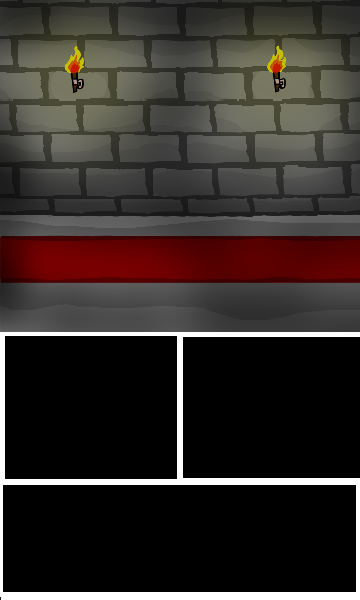
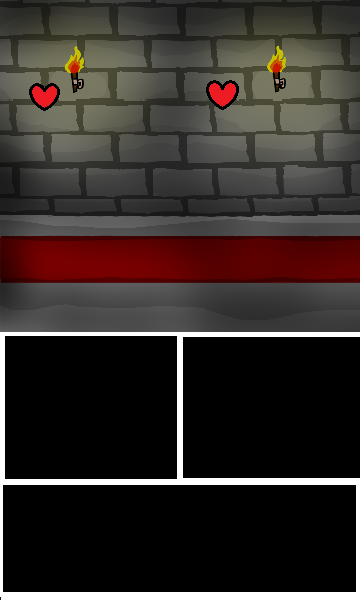
quelques modifs graphiques

Changed region(s): [[0.5806, 0.12, 0.6722, 0.18], [0.0611, 0.12, 0.1833, 0.18]]

diff --git a/core/src/com/nf28/game/GameOverScreen.java b/core/src/com/nf28/game/GameOverScreen.java
@@ -1,0 +1,117 @@
+package com.nf28.game;
+
+import com.badlogic.gdx.Gdx;
+import com.badlogic.gdx.Preferences;
+import com.badlogic.gdx.Screen;
+import com.badlogic.gdx.graphics.GL20;
+import com.badlogic.gdx.graphics.Texture;
+import com.badlogic.gdx.graphics.g2d.Sprite;
+import com.badlogic.gdx.graphics.g2d.SpriteBatch;
+import com.badlogic.gdx.scenes.scene2d.InputEvent;
+import com.badlogic.gdx.scenes.scene2d.Stage;
+import com.badlogic.gdx.scenes.scene2d.ui.Skin;
+import com.badlogic.gdx.scenes.scene2d.ui.Table;
+import com.badlogic.gdx.scenes.scene2d.ui.TextButton;
+import com.badlogic.gdx.scenes.scene2d.utils.ClickListener;
+
+/**
+ * Created by Clément on 12/06/2017.
+ */
+public class GameOverScreen implements Screen {
+
+    Skin skin;
+    Stage stage;
+    VocabularyQuest game;
+
+    SpriteBatch batch;
+
+    Sprite main_screen = new Sprite(new Texture("img/gameover.png"));
+
+
+    public GameOverScreen(final VocabularyQuest game){
+        final int WIDTH_BUTTON = Gdx.graphics.getWidth()*6/10;
+        final int HEIGHT_BUTTON = Gdx.graphics.getWidth()*15/100;
+        this.game = game;
+        batch = new SpriteBatch();
+        stage=new Stage();
+        Gdx.input.setInputProcessor(stage);
+
+        skin = new Skin( Gdx.files.internal( "skin/craftacular/skin/craftacular-ui.json" ));
+
+
+        main_screen.setSize(Gdx.graphics.getWidth(), Gdx.graphics.getHeight());
+        Table table=new Table();
+        table.setSize(Gdx.graphics.getWidth(), Gdx.graphics.getHeight());
+
+        final TextButton button_return=new TextButton("Return to main menu",skin);
+        table.add(button_return);
+        table.row();
+
+        stage.addActor(table);
+
+        button_return.addListener(new ClickListener(){
+            @Override
+            public void clicked(InputEvent event, float x, float y) {
+
+                if (game.bestfloor < game.floor) {
+                    game.bestfloor = game.floor;
+                    Preferences prefs = Gdx.app.getPreferences("cfg");
+                    prefs.putInteger("bestfloor", game.bestfloor);
+                    prefs.flush();
+                }
+
+                game.resetGame();
+                game.setScreen(new MainMenuScreen(game));
+            }
+        });
+
+    }
+
+
+
+    @Override
+    public void show() {
+
+    }
+
+    @Override
+    public void render(float delta) {
+
+        Gdx.gl.glClearColor(0,1,1,1);
+        Gdx.gl.glClear(GL20.GL_COLOR_BUFFER_BIT);
+
+        batch.begin();
+        main_screen.draw(batch);
+        batch.end();
+        stage.act(delta);
+        stage.draw();
+        //stage.setViewport(800,480,false);
+
+    }
+
+    @Override
+    public void resize(int width, int height) {
+
+
+    }
+
+    @Override
+    public void pause() {
+
+    }
+
+    @Override
+    public void resume() {
+
+    }
+
+    @Override
+    public void hide() {
+
+    }
+
+    @Override
+    public void dispose() {
+        stage.dispose();
+    }
+}

diff --git a/core/src/com/nf28/game/BattleScreen.java b/core/src/com/nf28/game/BattleScreen.java
@@ -40,8 +40,8 @@ public class BattleScreen implements Screen {
     Table table;
     Table tableCheat;
     final TextButton map;
-    final TextButton objet;
-    final TextButton magie;
+    //final TextButton objet;
+    //final TextButton magie;
     Label badguyLifeLabel ;
     Label goodguyLifeLabel ;
     Label desc ;
@@ -104,27 +104,31 @@ public class BattleScreen implements Screen {
             answerTable.row();
             tb.addListener(al);
         }
+
         table.add(answerTable).fill();
         table.row();
-
-        tableCheat= new Table();
-        tableCheat.setFillParent(true);
-        tableCheat.bottom();
         map =new TextButton("Flee",skin);
-        map.setWidth(Gdx.graphics.getWidth());
+        table.add(map).colspan(2).expandX();
+//        table.row();
+
+        //tableCheat= new Table();
+        //tableCheat.setFillParent(true);
+        //tableCheat.bottom();
+       // map =new TextButton("Flee",skin);
+       // map.setWidth(Gdx.graphics.getWidth());
        // table.add(map).colspan(2).expandX();
-        tableCheat.add(map).expandX();
-        tableCheat.row();
-        objet=new TextButton("Item",skin);
-        objet.setWidth(Gdx.graphics.getWidth());
-        tableCheat.add(objet);
-        tableCheat.row();
-        magie=new TextButton("Skill",skin);
-        magie.setWidth(Gdx.graphics.getWidth());
-        tableCheat.add(magie);
-        table.add(tableCheat).fill();
+        //tableCheat.add(map).expandX();
+        //tableCheat.row();
+        //objet=new TextButton("Item",skin);
+        //objet.setWidth(Gdx.graphics.getWidth());
+        //tableCheat.add(objet);
+        //tableCheat.row();
+        //magie=new TextButton("Skill",skin);
+        //magie.setWidth(Gdx.graphics.getWidth());
+       // tableCheat.add(magie);
+        //table.add(tableCheat).fill();
         stage.addActor(table);
-        stage.addActor(tableCheat);
+        //stage.addActor(tableCheat);
         refresh();
 
             map.addListener(new ClickListener() {
@@ -204,8 +208,7 @@ public class BattleScreen implements Screen {
         }
         if(game.heros.getHp()<=0)
         {
-            game.resetGame();
-            game.setScreen(new MainMenuScreen(game));
+            game.setScreen(new GameOverScreen(game));
             game.dispose();
         }
 

diff --git a/core/src/com/nf28/game/MainMenuScreen.java b/core/src/com/nf28/game/MainMenuScreen.java
@@ -32,8 +32,10 @@ public class MainMenuScreen implements Screen {
 
     Skin skin;
     Skin basicSkin;
+    Skin selectSkin;
     Stage stage;
     VocabularyQuest game;
+    Label bestfloor;
 
     SpriteBatch batch;
 
@@ -50,19 +52,25 @@ public class MainMenuScreen implements Screen {
 //        skin = new Skin( Gdx.files.internal( "ui/defaultskin.json" ));
 
         skin = new Skin( Gdx.files.internal( "skin/craftacular/skin/craftacular-ui.json" ));
+        //selectSkin = new Skin( Gdx.files.internal( "skin/extras/skin/extras-ui.json" ));
         basicSkin  = new Skin( Gdx.files.internal( "ui/defaultskin.json" ));
         main_screen.setSize(Gdx.graphics.getWidth(), Gdx.graphics.getHeight());
 
-
+        bestfloor = new Label("Best floor : " + game.bestfloor ,skin);
 
         Table table=new Table();
         table.setSize(Gdx.graphics.getWidth(), Gdx.graphics.getHeight());
         table.bottom();
 
+
+        table.add(bestfloor).padBottom(Gdx.graphics.getHeight()/10);
+        table.row();
+
         final SelectBox<String> listVoc = new SelectBox<String>(basicSkin);
         Array<String> lists = FileLoader.loadFilesNames();
         listVoc.setItems(lists);
-        table.add(listVoc).width(200).height(100).left().top();
+
+        table.add(listVoc).width(Gdx.graphics.getWidth()/2).height(Gdx.graphics.getHeight()/15).top();
         table.row();
 
         final TextButton startGame=new TextButton("Start game",skin);
@@ -123,7 +131,6 @@ public class MainMenuScreen implements Screen {
                 files.setDirectory(new FileHandle(Gdx.files.getExternalStoragePath()));
                 files.getBackground().setMinHeight(Gdx.graphics.getHeight()/3);  //TODO Scale with phone resolution
                 files.getBackground().setMinWidth(Gdx.graphics.getWidth());
-                //files.setFillParent(true);
                 files.show(stage);
             }
         });

diff --git a/core/src/com/nf28/game/ShopScreen.java b/core/src/com/nf28/game/ShopScreen.java
@@ -6,6 +6,8 @@ import com.badlogic.gdx.Screen;
 import com.badlogic.gdx.files.FileHandle;
 import com.badlogic.gdx.graphics.GL20;
 import com.badlogic.gdx.graphics.Texture;
+import com.badlogic.gdx.graphics.g2d.Sprite;
+import com.badlogic.gdx.graphics.g2d.SpriteBatch;
 import com.badlogic.gdx.graphics.g2d.TextureRegion;
 import com.badlogic.gdx.scenes.scene2d.InputEvent;
 import com.badlogic.gdx.scenes.scene2d.Stage;
@@ -30,6 +32,7 @@ import java.util.List;
 public class ShopScreen implements Screen {
 
     Skin skin;
+    SpriteBatch batch;
     VocabularyQuest game;
     Stage stage;
     int currentPage = 0;
@@ -40,12 +43,16 @@ public class ShopScreen implements Screen {
     List<Label> priceLabelList = new ArrayList<Label>();
     List<Image> imageList = new ArrayList<Image>();
 
+    Sprite background = new Sprite(new Texture("background/background_shop.png"));
+
 
     Table table;
 
     public ShopScreen(final VocabularyQuest game){
         this.game = game;
         stage=new Stage();
+        background.setSize(Gdx.graphics.getWidth(), Gdx.graphics.getHeight());
+        batch = new SpriteBatch();
         Gdx.input.setInputProcessor(stage);
         skin = new Skin( Gdx.files.internal("ui/defaultskin.json"));
         //skin = new Skin( Gdx.files.internal( "skin/craftacular/skin/craftacular-ui.json" ));
@@ -164,6 +171,9 @@ public class ShopScreen implements Screen {
     public void render(float delta) {
         Gdx.gl.glClearColor(1,1,1,1);
         Gdx.gl.glClear(GL20.GL_COLOR_BUFFER_BIT);
+        batch.begin();
+        background.draw(batch);
+        batch.end();
         stage.act(delta);
         stage.draw();
     }

diff --git a/core/src/com/nf28/game/VocabularyQuest.java b/core/src/com/nf28/game/VocabularyQuest.java
@@ -16,6 +16,7 @@ public class VocabularyQuest extends Game {
     Heros heros;
     Map map;
     int floor=0;
+    int bestfloor;
     int or;
 
     @Override
@@ -24,6 +25,7 @@ public class VocabularyQuest extends Game {
         heros = new Heros();
         heros.setImageUrl(prefs.getString("skin","character/character.png"));
         or = prefs.getInteger("gold",0);
+        bestfloor = prefs.getInteger("bestfloor",0);
         map = new Map(floor);
         mainMenuScreen = new MainMenuScreen(this);
         setScreen(mainMenuScreen);

diff --git a/core/src/com/nf28/ressource/MonsterTemplate.java b/core/src/com/nf28/ressource/MonsterTemplate.java
@@ -86,7 +86,7 @@ public class MonsterTemplate {
     };
 
     public static int or[] = {
-            1,
+            100,
             2,
             3,
             4,
